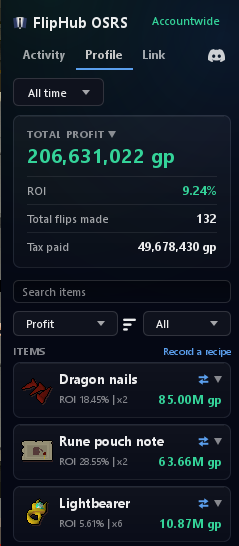
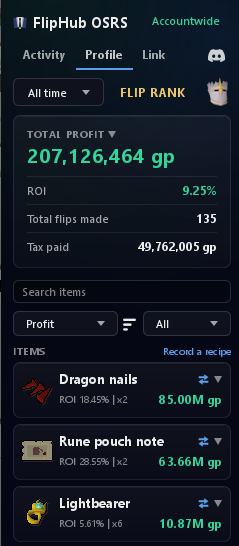
Show flip ranks on the plugin page, with contents and section dividers
Flip ranks leads the features, with a shot of the rank-up in game, and the
Profile screenshot is retaken with FLIP RANK beside the range.

A linked Contents list sits under the intro. The hub rewrites fragment links to
GitHub's heading anchors, so each entry jumps to its section there too.

A thin divider image separates the sections. A Markdown rule would not do: the
hub draws rules in 10% black on its dark page, where they cannot be seen.

diff --git a/README.md b/README.md
@@ -9,7 +9,39 @@ Track your Grand Exchange flips — margins, buy limits and live Wiki prices, ri
 Works entirely offline. Linking a [FlipHub](https://www.osrsfliphub.com) account is optional and
 **off by default**.
 
+## Contents
+
+- [Features](#features)
+  - [Flip ranks](#flip-ranks)
+  - [Activity panel](#activity-panel)
+  - [You can see how old a price is](#you-can-see-how-old-a-price-is)
+  - [Bookmarks](#bookmarks)
+  - [Grand Exchange suggestions](#grand-exchange-suggestions)
+  - [Decimal prices](#decimal-prices)
+  - [Profile](#profile)
+  - [Recipes](#recipes)
+  - [Sync with FlipHub OSRS](#sync-with-fliphub-osrs)
+  - [Also](#also) — offer preview, and one character or all of them
+- [Getting started](#getting-started)
+- [Privacy](#privacy)
+- [Support](#support)
+- [License](#license)
+
 ## Features
+
+#### Flip ranks
+
+Your lifetime profit across every character earns one of FlipHub's ten ranks, from Lumbridge
+Looter to Gielinor Elite. **FLIP RANK** on the Profile tab shows where you stand, in your rank's
+colour, and hovering it names the next rank.
+
+When a sale takes you into a new rank, the game congratulates you the way it does for a skill
+level: the message in the chatbox, the level-up fireworks and a dance. Only you see them. Turn it
+off with **Celebrate rank-ups** in the plugin's settings.
+
+<img src="docs/rank-up.png" width="520" alt="A character dancing in the Grand Exchange with orange fireworks around them, above the chatbox message: Congratulations, you just advanced a Flipping rank. You are now a Trader. Click here to continue">
+
+<img src="docs/divider.png" width="100%" alt="">
 
 #### Activity panel
 
@@ -20,6 +52,8 @@ Search the whole Grand Exchange, not only the items you have already flipped, an
 completion, profit or ROI.
 
 ![The FlipHub Activity panel in the RuneLite sidebar, showing sell and buy price, last traded prices, margin, margin x limit, ROI and remaining GE buy limit](docs/panel-activity.png)
+
+<img src="docs/divider.png" width="100%" alt="">
 
 #### You can see how old a price is
 
@@ -43,12 +77,16 @@ The same three colours run the **offer timers** in game: each Grand Exchange slo
 since that offer last moved — green under five minutes, yellow under thirty, red beyond. Turn them
 off with **Show GE offer timers**.
 
+<img src="docs/divider.png" width="100%" alt="">
+
 #### Bookmarks
 
 Star the items you flip often and filter the list down to just those. An item you never want to see
 again can be hidden from its icon.
 
 ![The panel filtered to bookmarked items, the star in the search row lit gold and the list headed "Bookmarked items"](docs/panel-bookmarks.png)
+
+<img src="docs/divider.png" width="100%" alt="">
 
 #### Grand Exchange suggestions
 
@@ -62,6 +100,8 @@ On a buy, the quantity prompt adds your remaining limit and how many you can aff
 
 ![The GE quantity prompt showing "Remaining GE limit: 3,000" and "Cash limit: 5,585"](docs/ge-suggestion-buy-limit.png)
 
+<img src="docs/divider.png" width="100%" alt="">
+
 #### Decimal prices
 
 The game reads `9m` in a price box but refuses the decimal point that would let you write `9.4m`.
@@ -74,17 +114,21 @@ trade, coffers.
 
 Turn it off with **Type decimal amounts** in the plugin settings.
 
+<img src="docs/divider.png" width="100%" alt="">
+
 #### Profile
 
 Completed flips totalled per item over **Session**, **Last 1h**, **4h**, **24h**, **7d** or **All
 time**. Sort by completion, profit or ROI.
 
-![The Profile tab, showing total profit, ROI, flips made and tax paid over the selected range, above a sortable list of per-item totals](docs/panel-profile.png)
+![The Profile tab, showing FLIP RANK in gold beside a Trader helm next to the range picker, then total profit, ROI, flips made and tax paid over the selected range, above a sortable list of per-item totals](docs/panel-profile.png)
 
 Open an item for what those totals are made of — average buy and sell, quantity, how long a flip
 took to fill — and every flip behind them, listed one by one.
 
 ![An opened item showing total profit, total cost, average sell and buy, ROI, flips, quantity and average time to complete, over a flip history listing each flip's quantity, buy, sell and profit](docs/panel-profile-item.png)
+
+<img src="docs/divider.png" width="100%" alt="">
 
 #### Recipes
 
@@ -110,6 +154,8 @@ and the Profile tab says which kind each one was.
 
 Nothing is guessed and nothing is recorded for you.
 
+<img src="docs/divider.png" width="100%" alt="">
+
 #### Sync with FlipHub OSRS
 
 Link your plugin with your FlipHub OSRS account to sync flips and get personalised flip insights to
@@ -130,11 +176,15 @@ and ranks as your total climbs.
 
 ![The FlipHub web dashboard: buy and sell price, margin, ROI, volume, buy limit and margin x limit](docs/10-web-dashboard.png)
 
+<img src="docs/divider.png" width="100%" alt="">
+
 #### Also
 
 - **Offer preview** — open an offer in game and the panel jumps to that item.
 - **One character or all of them** — the name above the tabs picks whose trades you are looking at,
   or adds them all together.
+
+<img src="docs/divider.png" width="100%" alt="">
 
 ## Getting started
 
@@ -145,6 +195,8 @@ To sync to the dashboard as well, open the **Link** tab in the FlipHub panel, pa
 key from [osrsfliphub.com/my-statistics](https://www.osrsfliphub.com/my-statistics) and click
 **Link account**. The tab shows whether the device is linked; **Unlink this device** stops it —
 uploads end immediately and the plugin returns to local-only.
+
+<img src="docs/divider.png" width="100%" alt="">
 
 ## Privacy
 
@@ -160,9 +212,13 @@ requested, read, or transmitted.
   state, timestamps) are uploaded over HTTPS to `osrsfliphub.com` to power your dashboard. As with
   any request to a third-party server, this exposes your IP address to it.
 
+<img src="docs/divider.png" width="100%" alt="">
+
 ## Support
 
 [Contact support](https://www.osrsfliphub.com/support).
+
+<img src="docs/divider.png" width="100%" alt="">
 
 ## License
 
